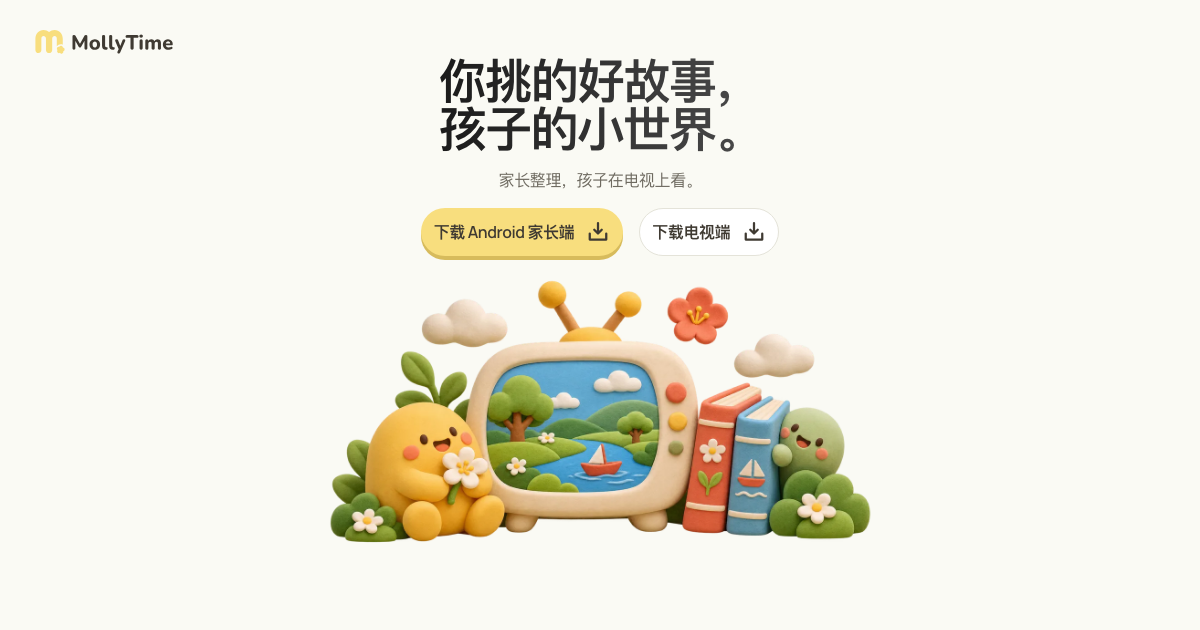
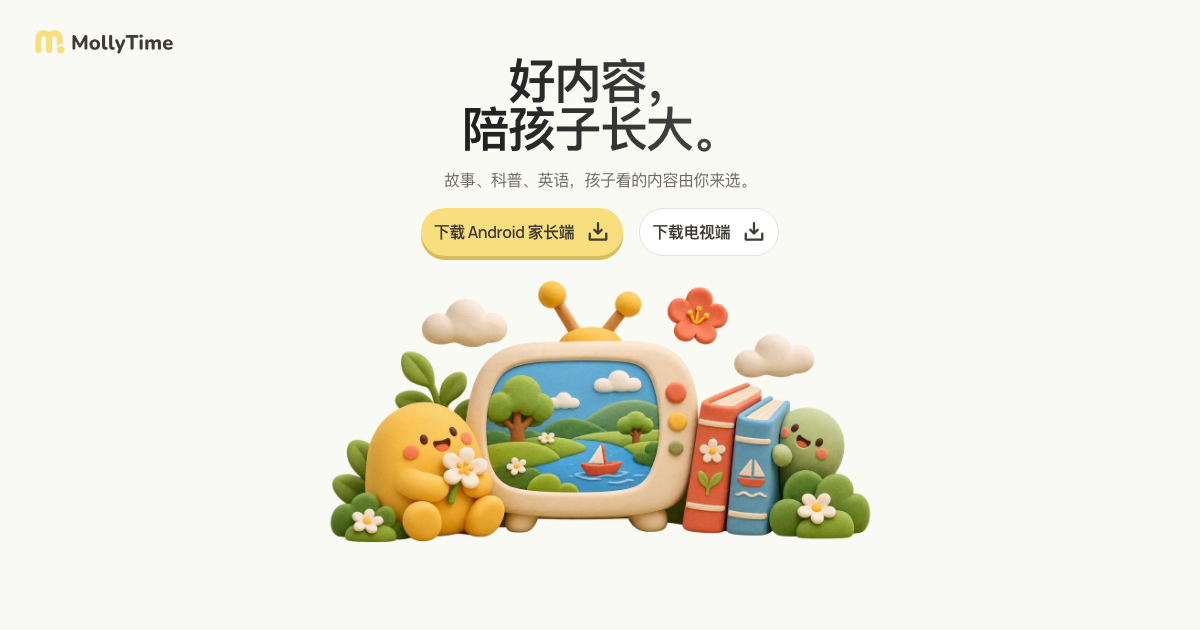
fix(site): refine family messaging and mobile showcase
Broaden the landing message to stories, science and English. Improve mobile device layout, caption wrapping and download button sizing, and refresh social previews.

Validation: site build and homepage/responsive browser checks passed.

Changed region(s): [[0.37, 0.0905, 0.6167, 0.2413], [0.37, 0.2714, 0.6167, 0.3016]]

diff --git a/apps/site/src/assets/styles/landing.css b/apps/site/src/assets/styles/landing.css
@@ -56,7 +56,8 @@ button:disabled { cursor:wait; }
 .hero-copy { position:relative; z-index:2; width:100%; max-width:680px; text-align:center; margin-top:32px; }
 .hero-title { color:transparent; background:linear-gradient(to right,#000,#666); background-clip:text; -webkit-background-clip:text; }
 .dark .hero-title { background-image:linear-gradient(to right,#fff,#9b9b9b); }
-.hero-subtitle { max-width:680px; color:var(--muted); margin:24px auto 24px; }
+.hero-subtitle { max-width:680px; color:var(--muted); margin:24px auto 24px; text-wrap:balance; }
+.hero-subtitle span { display:inline-block; }
 .story-garden { width:min(960px,100%); height:max(280px,min(480px,calc(100svh - 480px))); position:relative; z-index:1; margin-top:32px; transform-origin:center 70%; animation:garden-float 8s var(--ease) infinite alternate; }
 .story-garden img { width:100%; height:100%; object-fit:contain; }
 .story-garden[data-motion=paused] { animation-play-state:paused; }
@@ -67,7 +68,8 @@ button:disabled { cursor:wait; }
 .device-showcase { display:grid; grid-template-columns:240px minmax(0,1fr); align-items:end; gap:64px; padding-inline:32px; }
 .device-showcase figure { min-width:0; }
 .device-showcase figcaption { text-align:center; margin-top:24px; }
-.device-showcase figcaption p { margin-top:8px; }
+.device-showcase figcaption p { margin-top:8px; text-wrap:balance; }
+.device-showcase figcaption p span { display:inline-block; }
 .phone-showcase { width:216px; justify-self:center; position:relative; z-index:2; }
 .iphone-device { position:relative; padding:6px; background:#30322e; border:2px solid #777a73; border-radius:32px; box-shadow:0 0 0 1px #b7b9b2,inset 0 0 0 2px #4f514c,0 24px 40px #0003; }
 .iphone-device::before,.iphone-device::after { content:''; position:absolute; width:2px; background:#75776f; border-radius:2px; }
@@ -122,19 +124,19 @@ button:disabled { cursor:wait; }
   .landing-header .brand-link img { width:128px; }
   .landing-hero { min-height:0; padding:96px 16px 32px; }
   .hero-subtitle { max-width:680px; margin-block:24px; }
+  .hero-copy .download-actions { flex-direction:column; align-items:stretch; width:min(100%,280px); margin-inline:auto; margin-bottom:0; }
+  .hero-copy .download-control,.hero-copy .landing-button { width:100%; }
   .story-garden { width:calc(100% + 32px); height:auto; max-width:none; margin-top:32px; }
   .story-garden img { height:auto; }
   .section-heading { margin-bottom:32px; }
   .section-heading h2 { margin:0; }
   .feature-section .section-heading { margin-bottom:32px; }
-  .device-showcase { grid-template-columns:1fr; gap:0; padding-inline:0; }
-  .device-showcase figure { grid-column:1; grid-row:1; }
-  .phone-showcase { width:38%; max-width:152px; min-width:120px; margin-top:96px; justify-self:start; }
-  .tv-showcase { width:88%; justify-self:end; align-self:start; }
-  .tv-showcase figcaption { text-align:right; }
+  .device-showcase { grid-template-columns:1fr; gap:48px; padding-inline:0; }
+  .phone-showcase { display:grid; grid-template-columns:minmax(0,1.15fr) minmax(0,1fr); align-items:center; gap:24px; width:100%; max-width:400px; justify-self:center; }
+  .device-showcase .phone-showcase figcaption { text-align:left; margin-top:0; }
+  .phone-showcase figcaption p span { display:block; }
+  .tv-showcase { width:100%; max-width:560px; justify-self:center; }
   .device-showcase figcaption { margin-top:16px; }
-  .device-showcase .title-1 { font-size:18px; line-height:28px; }
-  .device-showcase figcaption p { margin-top:4px; }
   .iphone-device { border-radius:24px; padding:4px; }
   .iphone-screen { border-radius:18px; }
   .home-indicator { bottom:4px; height:2px; }
@@ -150,11 +152,6 @@ button:disabled { cursor:wait; }
   .reveal { transition:opacity 300ms var(--ease); transform:none!important; }
   .reveal[data-reveal=waiting] { opacity:1; }
   .landing-button:hover { transform:none; }
-}
-
-@media (max-width:359px) {
-  .hero-copy .download-actions { flex-direction:column; align-items:center; gap:12px; }
-
 }
 
 .demo-controls { display:flex; justify-content:center; margin-top:24px; }

diff --git a/apps/site/tests/site.spec.ts b/apps/site/tests/site.spec.ts
@@ -25,7 +25,7 @@ test('homepage has minimal header, download entries, metadata and no browser err
   const errors: string[] = [];
   page.on('pageerror', (error) => errors.push(error.message));
   await visit(page, '/');
-  await expect(page.getByRole('heading', { level: 1 })).toHaveText('你挑的好故事，孩子的小世界。');
+  await expect(page.getByRole('heading', { level: 1 })).toHaveText('好内容，陪孩子长大。');
   await expect(page.locator('link[rel=canonical]')).toHaveAttribute('href', 'https://mollytime.app');
   await expect(page.getByRole('link', { name: '使用网页版家长后台' })).toHaveCount(0);
   await expect(page.locator('#download-android-button')).toHaveCSS('background-color', 'rgb(248, 222, 126)');
@@ -65,6 +65,29 @@ test('minimal header and download remain usable at narrow phone widths', async (
     await expect(page.locator('header a')).toHaveCount(1);
     await expect(page.locator('header button')).toHaveCount(1);
     await expect(page.getByRole('button', { name: '打开导航菜单' })).toHaveCount(0);
+    const demonstration = await page.locator('.device-showcase').evaluate((element) => {
+      const bounds = (selector: string) => {
+        const rect = element.querySelector(selector)!.getBoundingClientRect();
+        return { left: rect.left, right: rect.right, top: rect.top, bottom: rect.bottom, width: rect.width };
+      };
+      return { phone: bounds('.iphone-device'), television: bounds('.television-device'), captions: [bounds('.phone-showcase figcaption'), bounds('.tv-showcase figcaption')] };
+    });
+    const overlaps = (a: typeof demonstration.phone, b: typeof demonstration.phone) => a.left < b.right && a.right > b.left && a.top < b.bottom && a.bottom > b.top;
+    expect(demonstration.phone.width).toBeGreaterThanOrEqual(140);
+    expect(overlaps(demonstration.phone, demonstration.television)).toBe(false);
+    for (const caption of demonstration.captions) {
+      expect(caption.left).toBeGreaterThanOrEqual(0);
+      expect(caption.right).toBeLessThanOrEqual(width);
+      expect(overlaps(caption, demonstration.phone)).toBe(false);
+      expect(overlaps(caption, demonstration.television)).toBe(false);
+    }
+    if (width < 768) {
+      expect(demonstration.television.top).toBeGreaterThan(demonstration.phone.bottom);
+      expect(demonstration.television.width).toBeGreaterThanOrEqual(width - 32);
+      const primary = await page.locator('#download-android-button').boundingBox();
+      const secondary = await page.locator('#download-button').boundingBox();
+      expect(primary!.width).toBeCloseTo(secondary!.width, 0);
+    }
   }
   await page.setViewportSize({ width: 390, height: 844 });
   await visit(page, '/');
